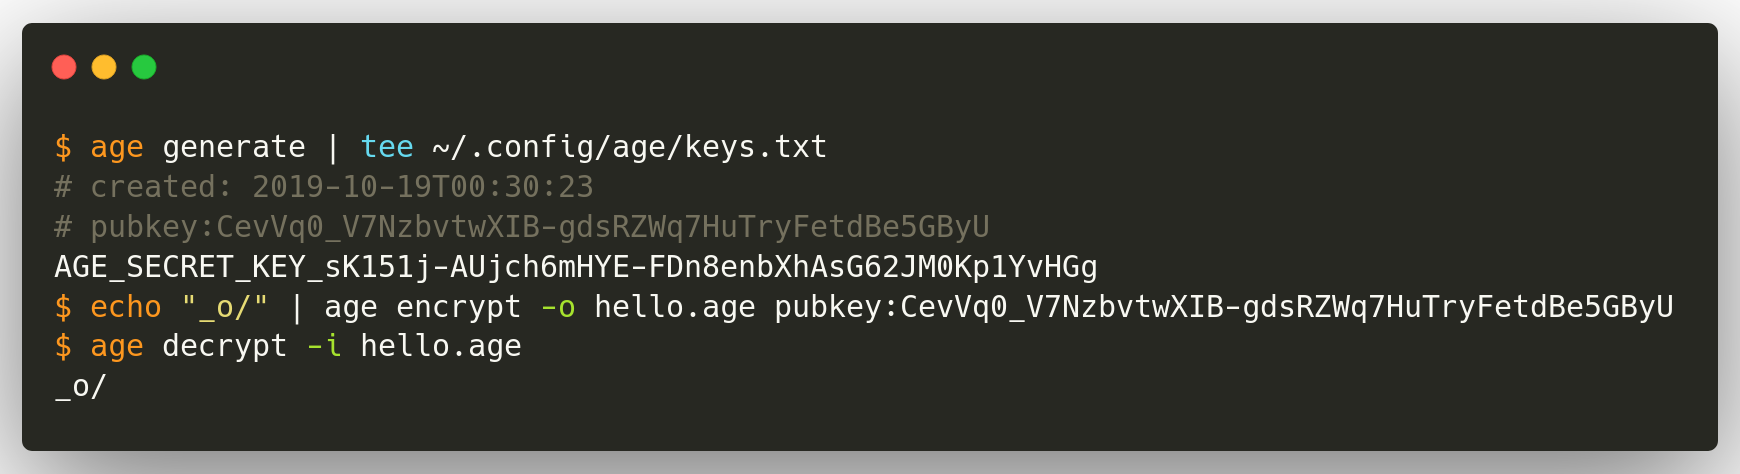
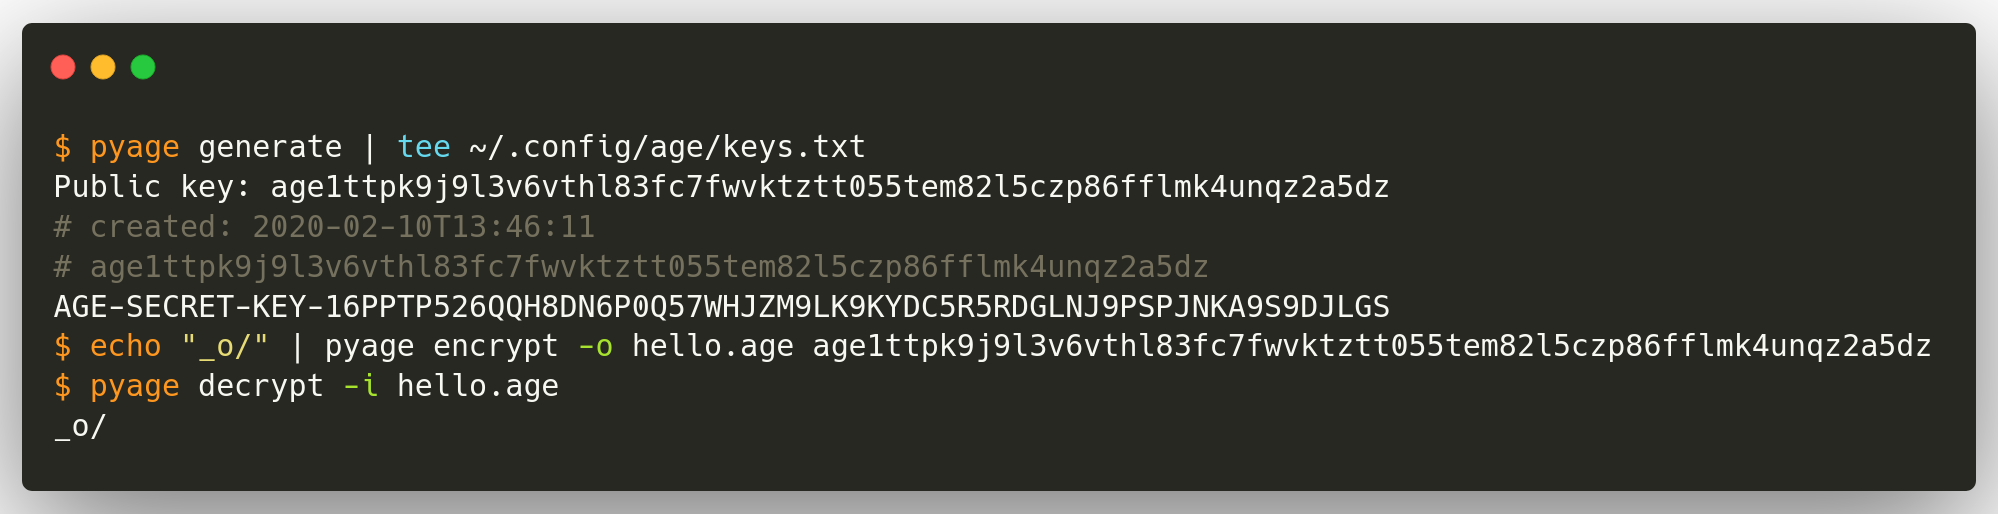
Updated documentation

diff --git a/docs/source/guides.rst b/docs/source/guides.rst
@@ -19,12 +19,12 @@ directly by stored in a file.
 
 ::
 
-    $ age generate >> ~/.config/age/keys.txt
+    $ pyage generate >> ~/.config/age/keys.txt
 
     $ cat ~/.config/age/keys.txt
-    # created: 2019-09-21T23:04:02
-    # pubkey:oHoXjKEvpxAgs9rY2YGbiEfKG5wcFo-WEb_u1Mi3hVQ
-    AGE_SECRET_KEY_yBO1LGytPAYcGPw3Ptu7LJ0xvwO1K9B9itImkvZej3E
+    # created: 2020-02-10T13:34:27
+    # age1luj4yjndx48me58dalx200cs65qg9jhtcehjylnp8h9e2c9gduqqq8kduu
+    AGE-SECRET-KEY-1TPGEV9GPP6N39Z40RXTQQJMUHU40EJGDDWEFJDJFWVMY0F9FR9NSQRKGQL
 
 
 .. _guide-encryption:
@@ -33,11 +33,11 @@ Encrypt to a Public Key
 -----------------------
 
 Public keys of recipients must be provided in the ``age encrypt`` command. The
-simplest use case is to encrypt to an age public key starting with ``pubkey:``.
+simplest use case is to encrypt to an age public key starting with ``age1``.
 
 ::
 
-    $ echo "_o/" | age encrypt -o hello.age pubkey:oHoXjKEvpxAgs9rY2YGbiEfKG5wcFo-WEb_u1Mi3hVQ
+    $ echo "_o/" | pyage encrypt -o hello.age age1luj4yjndx48me58dalx200cs65qg9jhtcehjylnp8h9e2c9gduqqq8kduu
 
 .. _guide-decryption:
 
@@ -52,7 +52,7 @@ stored at
 
 ::
 
-    $ age decrypt -i hello.age
+    $ pyage decrypt -i hello.age
     _o/
 
 
@@ -68,10 +68,10 @@ characters are not echoed to the terminal.
 
 ::
 
-    $ echo 'Hello Password!' | age encrypt -p -o hello_password.age
+    $ echo 'Hello Password!' | pyage encrypt -p -o hello_password.age
     Type passphrase:
 
-    $ age decrypt -p -i hello_password.age
+    $ pyage decrypt -p -i hello_password.age
     Type passphrase:
     Hello Password!
 
@@ -87,8 +87,8 @@ file or an URL. Note that in this case, :ref:`aliases <guide-alias>` are
 
 ::
 
-    $ echo 'Hello file!' | age encrypt -o hello_recipients.age recipients.txt
-    $ echo 'Hello URL!'  | age encrypt -o hello_recipients.age https://example.com/age-keys.txt
+    $ echo 'Hello file!' | pyage encrypt -o hello_recipients.age recipients.txt
+    $ echo 'Hello URL!'  | pyage encrypt -o hello_recipients.age https://example.com/age-keys.txt
 
 
 .. _guide-github:
@@ -107,9 +107,9 @@ key is stored in at ``~/.ssh/id_rsa``.
 
 ::
 
-    $ echo 'Hello GitHub!' | age encrypt -o hello_github.age github:jojonas
+    $ echo 'Hello GitHub!' | pyage encrypt -o hello_github.age github:jojonas
 
-    $ age decrypt -i hello_github.age
+    $ pyage decrypt -i hello_github.age
     Hello GitHub!
 
 
@@ -126,9 +126,9 @@ be specified, separated by a space character.
 ::
 
     $ cat ~/.config/age/aliases.txt
-    filippo: pubkey:jqmfMHBjlb7HoIjjTsCQ9NHIk_q53Uy_ZxmXBhdIpx4
-    ben: pubkey:ZAE2ZnRdItykp0ncAZJ2FAzIIfTvmGcgIx/759QhnQw github:Benjojo
-    jonas: pubkey:oHoXjKEvpxAgs9rY2YGbiEfKG5wcFo-WEb_u1Mi3hVQ github:jojonas
+    filippo: age1luj4yjndx48me58dalx200cs65qnotarealkeyjylnp8h9e2c9gduqqq8kduu
+    ben: age1luj4yjndx48me58dalx200cs65qnotarealkeyjylnp8h9e2c9gduqqq8kduu github:Benjojo
+    jonas: age1luj4yjndx48me58dalx200cs65qg9jhtcehjylnp8h9e2c9gduqqq8kduu github:jojonas
 
-    $ echo 'Hello Alias!' | age encrypt -o hello_alias.age jonas
+    $ echo 'Hello Alias!' | pyage encrypt -o hello_alias.age jonas
 

diff --git a/docs/source/tutorials.rst b/docs/source/tutorials.rst
@@ -15,19 +15,19 @@ On Debian or Ubuntu, use:
 
 ::
 
-    $ sudo apt install python3 pipenv
+    $ sudo apt install python3 pipenv libsodium-dev
 
 On Arch, install them as
 
 ::
 
-    $ sudo pacman -S python python-pipenv
+    $ sudo pacman -S python python-pipenv libsodium
 
 On Fedora, use
 
 ::
 
-    $ sudo dnf install python3 pipenv
+    $ sudo dnf install python3 pipenv libsodium-devel
 
 
 Installing pyage
@@ -66,15 +66,15 @@ And it's just as exciting!
 ::
 
     $ mkdir -p ~/.config/age
-    $ age generate | tee ~/.config/age/keys.txt
+    $ pyage generate | tee ~/.config/age/keys.txt
 
 You should see something like:
 
 ::
 
-    # created: 2019-10-19T12:34:56
-    # pubkey:Vn5D1ZdwXiEtO3xZ_81psWqTgEyngXZfiBH_4kddWS0
-    AGE_SECRET_KEY_uBE1QNrUFq4dSrmKyAiDWKDd9HCuasETsF7RsIcuh2E
+    # created: 2020-02-10T13:34:27
+    # age1luj4yjndx48me58dalx200cs65qg9jhtcehjylnp8h9e2c9gduqqq8kduu
+    AGE-SECRET-KEY-1TPGEV9GPP6N39Z40RXTQQJMUHU40EJGDDWEFJDJFWVMY0F9FR9NSQRKGQL
 
 Take note of the part starting with ``pubkey:<gibberish>``. This is your public
 key. It serves as your new "address" and you may distribute it to your friends
@@ -96,7 +96,7 @@ Encrypt the file to the public key obtained earlier:
 
 ::
 
-    $ age encrypt -i hello.txt -o hello.age pubkey:Vn5D1ZdwXiEtO3xZ_81psWqTgEyngXZfiBH_4kddWS0
+    $ pyage encrypt -i hello.txt -o hello.age age1luj4yjndx48me58dalx200cs65qg9jhtcehjylnp8h9e2c9gduqqq8kduu
 
 The encrypted file is now stored at ``hello.age``.
 
@@ -108,6 +108,6 @@ In order to decrypt the file, all you need to do is to call
 
 ::
 
-    $ age decrypt -i hello.age
+    $ pyage decrypt -i hello.age
 
 If all went well, your terminal will print out "Hello World". Hello!

diff --git a/README.md b/README.md
@@ -26,15 +26,15 @@ Install using pipenv:
 Generate a key pair:
 
     $ mkdir -p ~/.config/age
-    $ pipenv run age generate > ~/.config/age/keys.txt
+    $ pipenv run pyage generate > ~/.config/age/keys.txt
 
 Encrypt a file:
 
-    $ pipenv run age encrypt -i hello.txt -o hello.age pubkey:<recipient public key>
+    $ pipenv run pyage encrypt -i hello.txt -o hello.age pubkey:<recipient public key>
 
 Decrypt a file (uses `~/.config/age/keys.txt`):
 
-    $ pipenv run age decrypt -i hello.age
+    $ pipenv run pyage decrypt -i hello.age
 
 For a real tutorial, see [the Tutorial section in the documentation](https://pyage.readthedocs.io/en/latest/tutorials.html).
 

diff --git a/docs/source/cli.rst b/docs/source/cli.rst
@@ -4,7 +4,7 @@
 Command Line Interface (CLI)
 ============================
 
-.. command-output:: age --help
+.. command-output:: pyage --help
 
 
 .. _usage-encrypt:
@@ -12,7 +12,7 @@ Command Line Interface (CLI)
 Encryption
 ----------
 
-.. command-output:: age encrypt --help
+.. command-output:: pyage encrypt --help
 
 
 .. _usage-decrypt:
@@ -20,11 +20,11 @@ Encryption
 Decryption
 ----------
 
-.. command-output:: age decrypt --help
+.. command-output:: pyage decrypt --help
 
 .. _usage-generate:
 
 Key Generation
 --------------
 
-.. command-output:: age generate --help
+.. command-output:: pyage generate --help
